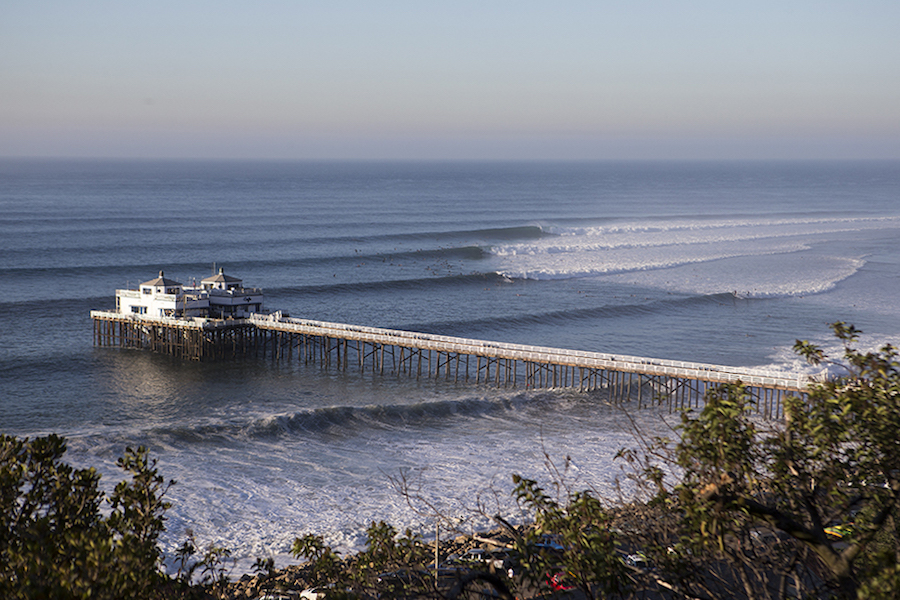
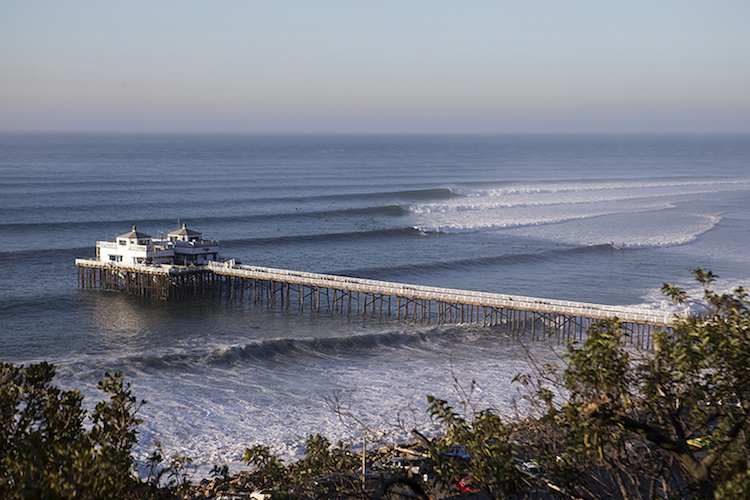
optimize images for quicker speed

diff --git a/index.html b/index.html
@@ -11,25 +11,25 @@
     <link rel="stylesheet" href="resources/css/queries.css">
     <link rel="stylesheet" href="https://fonts.googleapis.com/css?family=Lato">
     <title>Surfup</title>
-    <link rel="apple-touch-icon" sizes="57x57" href="/resources/favicons/apple-touch-icon-57x57.png">
-    <link rel="apple-touch-icon" sizes="60x60" href="/resources/favicons/apple-touch-icon-60x60.png">
-    <link rel="apple-touch-icon" sizes="72x72" href="/resources/favicons/apple-touch-icon-72x72.png">
-    <link rel="apple-touch-icon" sizes="76x76" href="/resources/favicons/apple-touch-icon-76x76.png">
-    <link rel="apple-touch-icon" sizes="114x114" href="/resources/favicons/apple-touch-icon-114x114.png">
-    <link rel="apple-touch-icon" sizes="120x120" href="/resources/favicons/apple-touch-icon-120x120.png">
-    <link rel="apple-touch-icon" sizes="144x144" href="/resources/favicons/apple-touch-icon-144x144.png">
-    <link rel="apple-touch-icon" sizes="152x152" href="/resources/favicons/apple-touch-icon-152x152.png">
-    <link rel="apple-touch-icon" sizes="180x180" href="/resources/favicons/apple-touch-icon-180x180.png">
-    <link rel="icon" type="image/png" sizes="32x32" href="/resources/favicons/favicon-32x32.png">
-    <link rel="icon" type="image/png" sizes="194x194" href="/resources/favicons/favicon-194x194.png">
-    <link rel="icon" type="image/png" sizes="192x192" href="/resources/favicons/android-chrome-192x192.png">
-    <link rel="icon" type="image/png" sizes="16x16" href="/resources/favicons/favicon-16x16.png">
-    <link rel="manifest" href="/resources/favicons/manifest.json">
-    <link rel="mask-icon" href="/resources/favicons/safari-pinned-tab.svg" color="#5bbad5">
-    <link rel="shortcut icon" href="/resources/favicons/favicon.ico">
+    <link rel="apple-touch-icon" sizes="57x57" href="resources/favicons/apple-touch-icon-57x57.png">
+    <link rel="apple-touch-icon" sizes="60x60" href="resources/favicons/apple-touch-icon-60x60.png">
+    <link rel="apple-touch-icon" sizes="72x72" href="resources/favicons/apple-touch-icon-72x72.png">
+    <link rel="apple-touch-icon" sizes="76x76" href="resources/favicons/apple-touch-icon-76x76.png">
+    <link rel="apple-touch-icon" sizes="114x114" href="resources/favicons/apple-touch-icon-114x114.png">
+    <link rel="apple-touch-icon" sizes="120x120" href="resources/favicons/apple-touch-icon-120x120.png">
+    <link rel="apple-touch-icon" sizes="144x144" href="resources/favicons/apple-touch-icon-144x144.png">
+    <link rel="apple-touch-icon" sizes="152x152" href="resources/favicons/apple-touch-icon-152x152.png">
+    <link rel="apple-touch-icon" sizes="180x180" href="resources/favicons/apple-touch-icon-180x180.png">
+    <link rel="icon" type="image/png" sizes="32x32" href="resources/favicons/favicon-32x32.png">
+    <link rel="icon" type="image/png" sizes="194x194" href="resources/favicons/favicon-194x194.png">
+    <link rel="icon" type="image/png" sizes="192x192" href="resources/favicons/android-chrome-192x192.png">
+    <link rel="icon" type="image/png" sizes="16x16" href="resources/favicons/favicon-16x16.png">
+    <link rel="manifest" href="resources/favicons/manifest.json">
+    <link rel="mask-icon" href="resources/favicons/safari-pinned-tab.svg" color="#5bbad5">
+    <link rel="shortcut icon" href="resources/favicons/favicon.ico">
     <meta name="msapplication-TileColor" content="#ffc40d">
-    <meta name="msapplication-TileImage" content="/resources/favicons/mstile-144x144.png">
-    <meta name="msapplication-config" content="/resources/favicons/browserconfig.xml">
+    <meta name="msapplication-TileImage" content="resources/favicons/mstile-144x144.png">
+    <meta name="msapplication-config" content="resources/favicons/browserconfig.xml">
     <meta name="theme-color" content="#ffffff">
   </head>
   <body>

diff --git a/resources/css/style.css b/resources/css/style.css
@@ -191,8 +191,8 @@ input[type=submit]:active {
 /*----------------------------------------------------------*/
 
 header {
-  background-image: -webkit-gradient(linear, left top, left bottom, from(rgba(0, 0, 0, 0.5)), to(rgba(0, 0, 0, 0.5))), url(img/hero.jpg);
-  background-image: linear-gradient(rgba(0, 0, 0, 0.5), rgba(0, 0, 0, 0.5)), url(img/hero.jpg);
+  background-image: -webkit-gradient(linear, left top, left bottom, from(rgba(0, 0, 0, 0.5)), to(rgba(0, 0, 0, 0.5))), url(img/hero-min.jpg);
+  background-image: linear-gradient(rgba(0, 0, 0, 0.5), rgba(0, 0, 0, 0.5)), url(img/hero-min.jpg);
   background-size: cover;
   background-position: center;
   height: 100vh;
@@ -418,8 +418,8 @@ header {
 /*----------------------------------------------------------*/
 
 .section-testimonials {
-  background-image: -webkit-gradient(linear, left top, left bottom, from(rgba(0, 0, 0, 0.6)), to(rgba(0, 0, 0, 0.6))), url(img/testimonial-background.jpg);
-  background-image: linear-gradient(rgba(0, 0, 0, 0.6), rgba(0, 0, 0, 0.6)), url(img/testimonial-background.jpg);
+  background-image: -webkit-gradient(linear, left top, left bottom, from(rgba(0, 0, 0, 0.6)), to(rgba(0, 0, 0, 0.6))), url(img/testimonial-background-min.jpg);
+  background-image: linear-gradient(rgba(0, 0, 0, 0.6), rgba(0, 0, 0, 0.6)), url(img/testimonial-background-min.jpg);
   background-size: cover;
   color: #fff;
   background-attachment: fixed;
